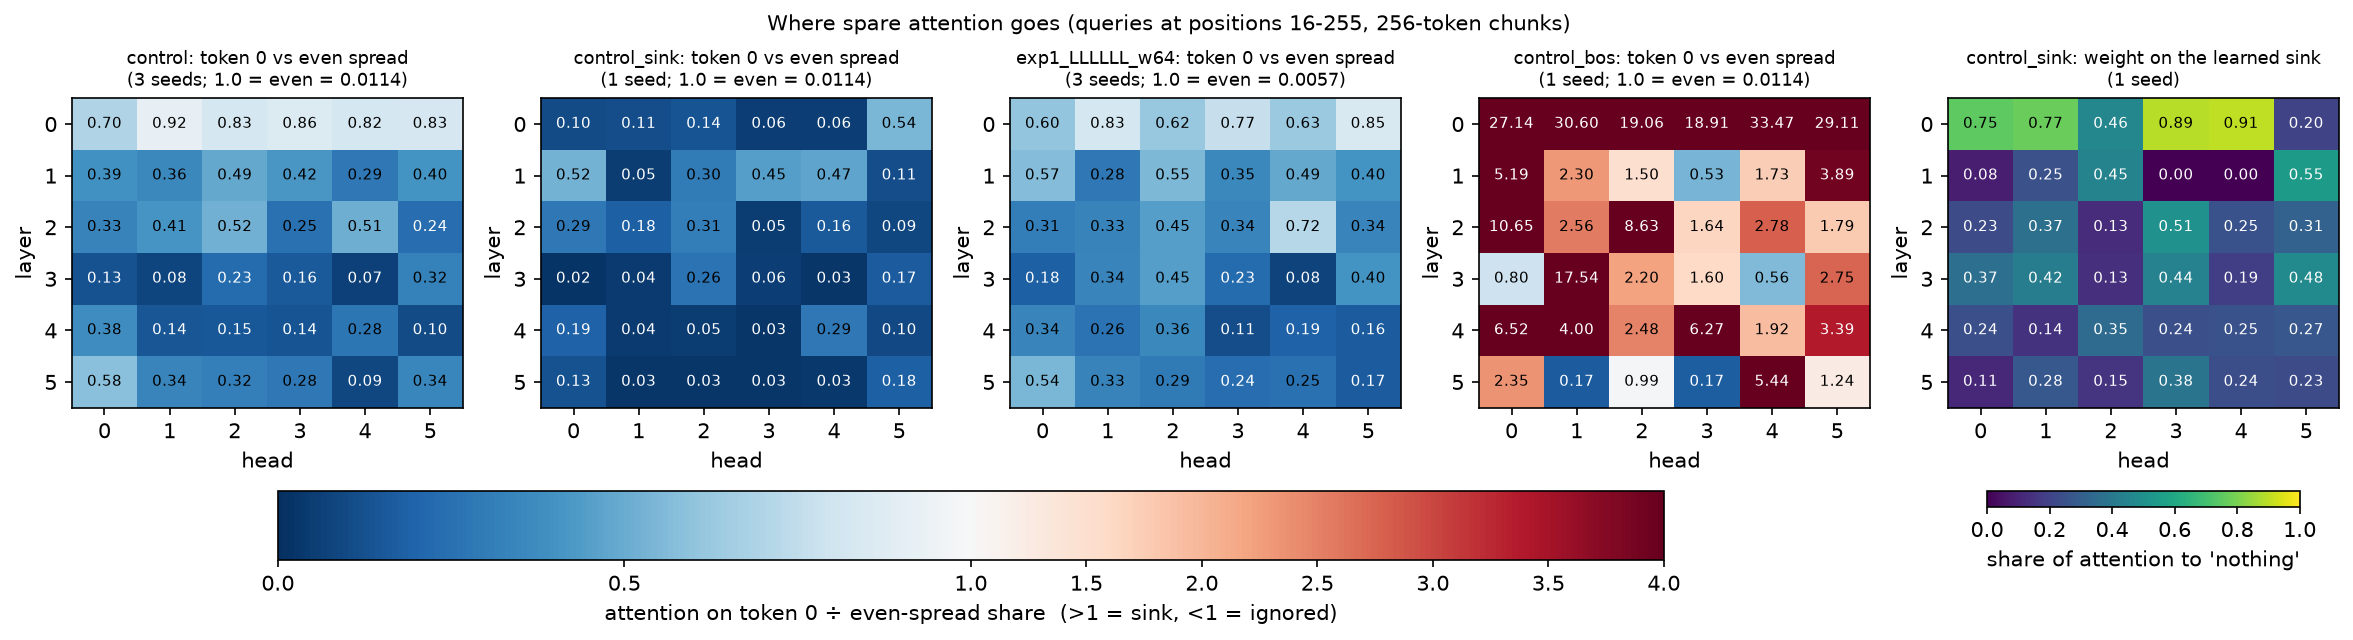
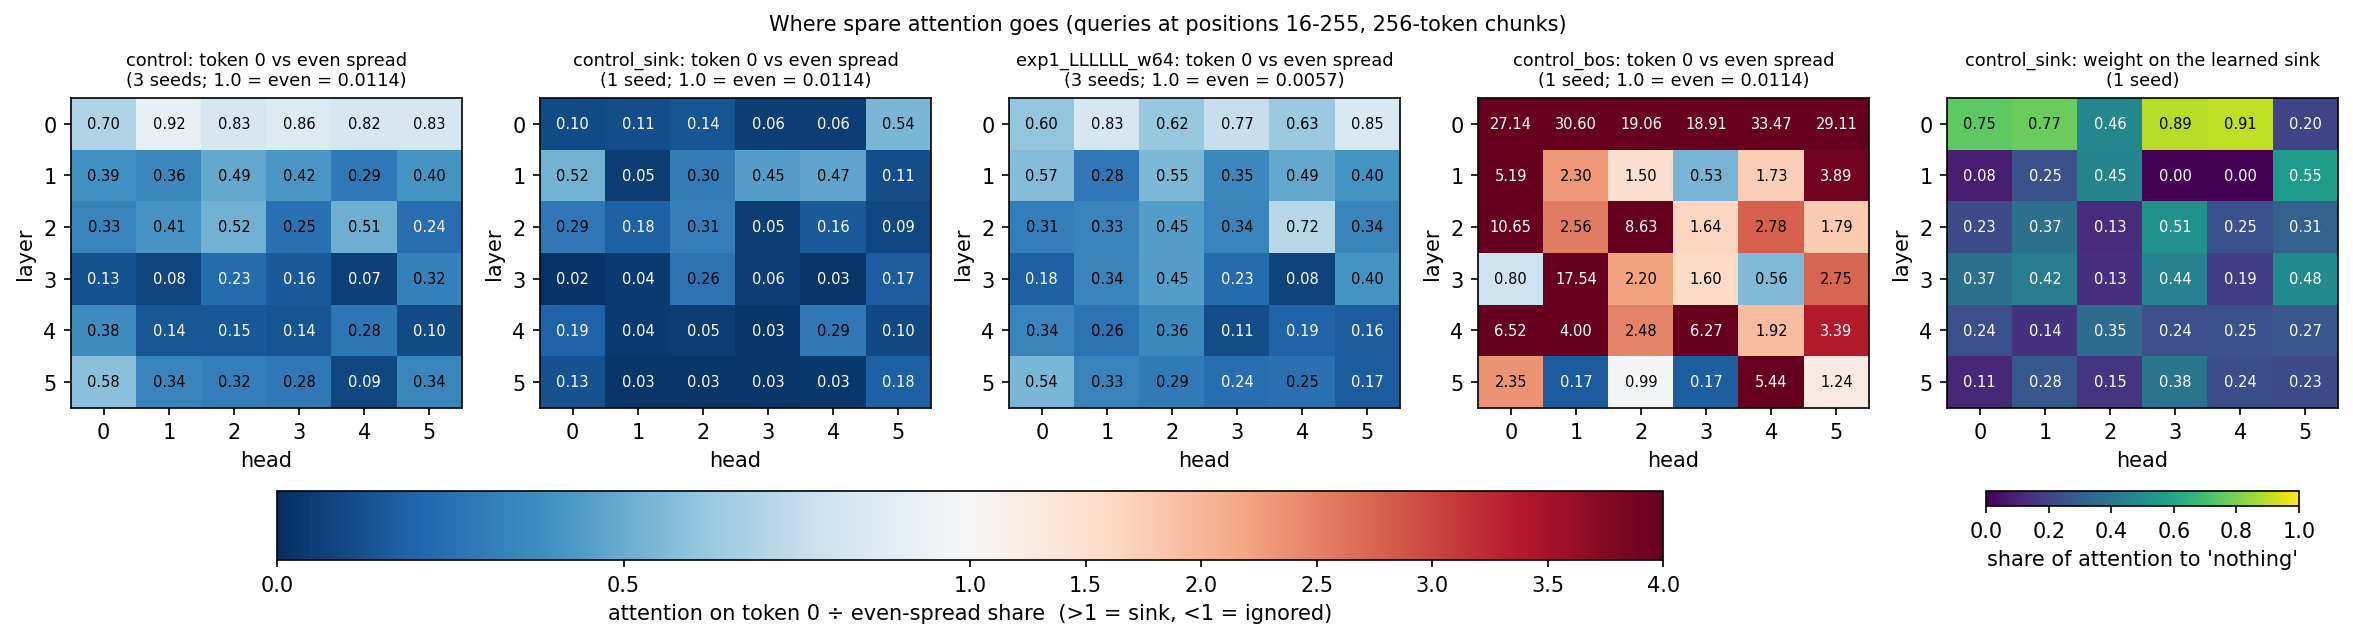
feat: add more results

diff --git a/scripts/exp2_stream.py b/scripts/exp2_stream.py
@@ -310,6 +310,113 @@ def plot():
                  fontsize=10, y=1.02)
     fig.savefig(RESULTS / "exp2_first_token_heatmap.png", dpi=150, bbox_inches="tight")
     plt.close(fig)
+    plot_post()
+
+
+def plot_post():
+    """Single-message figures for the write-up (narrower than the full panels above)."""
+    import matplotlib
+
+    matplotlib.use("Agg")
+    import matplotlib.pyplot as plt
+    from matplotlib.colors import TwoSlopeNorm
+
+    colours = {c[0]: c[4] for c in CASES}
+    labels = {"a": "full cache (keeps every token)", "b": "rolling cache, last 64 tokens",
+              "e": "trained with a 64-token window, rolling cache"}
+
+    # 1. Only the full cache breaks.
+    pos = read_csv(RESULTS / "exp2_stream_positions.csv")
+    fig, ax = plt.subplots(figsize=(9, 4.6))
+    for case_id in ["a", "b", "e"]:
+        ys = [float(r["loss"]) for r in pos if r["case"] == case_id]
+        if not ys:
+            continue
+        k = 32
+        smooth = [sum(ys[max(0, i - k + 1) : i + 1]) / len(ys[max(0, i - k + 1) : i + 1]) for i in range(len(ys))]
+        ax.plot(range(1, len(ys) + 1), smooth, color=colours[case_id], label=labels[case_id], lw=1.8)
+    ax.axvline(256, color="grey", ls="--", lw=1)
+    ax.text(256 * 1.06, 4.9, "training length (256)", fontsize=8.5, color="grey", va="top")
+    ax.set_xscale("log")
+    ax.set_xlabel("position in the stream (tokens, log scale)")
+    ax.set_ylabel("loss (nats/token, 32-token moving avg)")
+    ax.grid(alpha=0.3, which="both")
+    ax.legend(fontsize=8.5, loc="center left")
+    fig.tight_layout()
+    fig.savefig(RESULTS / "exp2_post_stream.png", dpi=150)
+    plt.close(fig)
+
+    # 2. Paired cost of evicting the first tokens.
+    buckets = read_csv(RESULTS / "exp2_stream.csv")
+    by = {(r["case"], int(r["bucket_start"])): float(r["mean_loss"]) for r in buckets}
+    fig, ax = plt.subplots(figsize=(9, 4.4))
+    for rolling, sink, colour, name in [("b", "c", "#d62728", "control (chunks start mid-text)"),
+                                        ("f", "g", "#ff7f0e", "control + <s> at the start of every chunk")]:
+        starts = [s for s in range(0, STREAM_LEN, BUCKET) if (rolling, s) in by and (sink, s) in by]
+        if not starts:
+            continue
+        gaps = [by[(rolling, s)] - by[(sink, s)] for s in starts]
+        ax.plot([s + BUCKET / 2 for s in starts], gaps, color=colour, marker="o", ms=3.5, lw=1.6,
+                label=f"{name}: mean {sum(gaps) / len(gaps):+.3f}")
+    ax.axhline(0, color="grey", lw=1)
+    ax.set_xlabel("position in the stream (tokens; 128-token buckets)")
+    ax.set_ylabel("extra loss from evicting the first tokens")
+    ax.grid(alpha=0.3)
+    ax.legend(fontsize=8.5, loc="upper right")
+    fig.tight_layout()
+    fig.savefig(RESULTS / "exp2_post_eviction_cost.png", dpi=150)
+    plt.close(fig)
+
+    # 3. Where attention goes: control vs BOS (vs even spread), and the learned sink.
+    att = read_csv(RESULTS / "exp2_first_token_attention.csv")
+
+    def mean_grid(model_name, column):
+        rows = [r for r in att if r["model"] == model_name and r[column] != ""]
+        if not rows:
+            return None
+        n_seeds = len({r["run"] for r in rows})
+        grid = [[0.0] * 6 for _ in range(6)]
+        for r in rows:
+            grid[int(r["layer"])][int(r["head"])] += float(r[column]) / n_seeds
+        return grid
+
+    base = even_share(None)
+    panels = []
+    for name, title in [("control", "control: chunks start mid-text"),
+                        ("control_bos", "control + <s> at position 0")]:
+        g = mean_grid(name, "attn_on_token0")
+        if g:
+            panels.append(("ratio", title, [[v / base for v in row] for row in g]))
+    g = mean_grid("control_sink", "learned_sink_share")
+    if g:
+        panels.append(("share", "learned sink: share sent to 'nothing'", g))
+    fig, axes = plt.subplots(1, len(panels), figsize=(4.1 * len(panels), 4.3), squeeze=False)
+    norm = TwoSlopeNorm(vmin=0, vcenter=1, vmax=4)
+    for ax, (kind, title, grid) in zip(axes[0], panels):
+        if kind == "ratio":
+            im_r = ax.imshow(grid, norm=norm, cmap="RdBu_r", aspect="auto")
+            fmt = lambda v: f"{v:.0f}×" if v >= 9.5 else f"{v:.1f}×"
+            dark = lambda v: v > 3 or v < 0.25
+        else:
+            im_s = ax.imshow(grid, vmin=0, vmax=1, cmap="viridis", aspect="auto")
+            fmt = lambda v: f"{v * 100:.0f}%"
+            dark = lambda v: v < 0.6
+        for i in range(6):
+            for j in range(6):
+                ax.text(j, i, fmt(grid[i][j]), ha="center", va="center", fontsize=7.5,
+                        color="white" if dark(grid[i][j]) else "black")
+        ax.set_title(title, fontsize=9.5)
+        ax.set_xlabel("head")
+        ax.set_ylabel("layer")
+        ax.set_xticks(range(6))
+        ax.set_yticks(range(6))
+    ratio_axes = [a for a, p in zip(axes[0], panels) if p[0] == "ratio"]
+    fig.colorbar(im_r, ax=ratio_axes, shrink=0.8, location="bottom", pad=0.2,
+                 label="attention on token 0 ÷ an even share  (1× = even, >1× = sink)")
+    if panels and panels[-1][0] == "share":
+        fig.colorbar(im_s, ax=axes[0][-1], shrink=0.8, location="bottom", pad=0.2, label="share of attention")
+    fig.savefig(RESULTS / "exp2_post_attention.png", dpi=150, bbox_inches="tight")
+    plt.close(fig)
 
 
 def summary():

diff --git a/README.md b/README.md
@@ -2,7 +2,7 @@
 
 **How do modern LLMs keep their KV cache cheap?** This repo rebuilds the memory tricks behind Gemma 3, Mistral, StreamingLLM and gpt-oss from scratch in a 3.4M-parameter model, and tests each one with controlled experiments: one change at a time against a fixed control, multiple seeds, every run logged. Everything runs on one Apple M4 laptop, at $0 compute.
 
-Write-up series: [Part 1: Background](https://anush-deokar.vercel.app/writing/tiny-frontier/background) · [Part 2: Local vs global attention](https://anush-deokar.vercel.app/writing/tiny-frontier/local-global-attention) · Full results log: [`docs/results.md`](docs/results.md)
+Write-up series: [Part 1: Background](https://anushdeokar.xyz/writing/tiny-frontier/background) · [Part 2: Local vs global attention](https://anushdeokar.xyz/writing/tiny-frontier/local-global-attention) · [Part 3: Attention sinks](https://anushdeokar.xyz/writing/tiny-frontier/attention-sinks) · Full results log: [`docs/results.md`](docs/results.md)
 
 ## Headline results
 
@@ -136,7 +136,6 @@ docs/results.md      the full results log: numbers, findings, predictions vs out
 | Gemma 3 270M parity | ✅ |
 | Experiment 1: local/global attention | ✅ |
 | Experiment 2: attention sinks and streaming | ✅ |
-| Experiment 3: sinks across scale | ⏸ postponed |
 
 **Open question for Experiment 3:** at this scale, evicting a BOS sink costs 0.035 nats, while StreamingLLM reports perplexity blowing up in large models. Does the dependence on the sink grow with model size?
 
